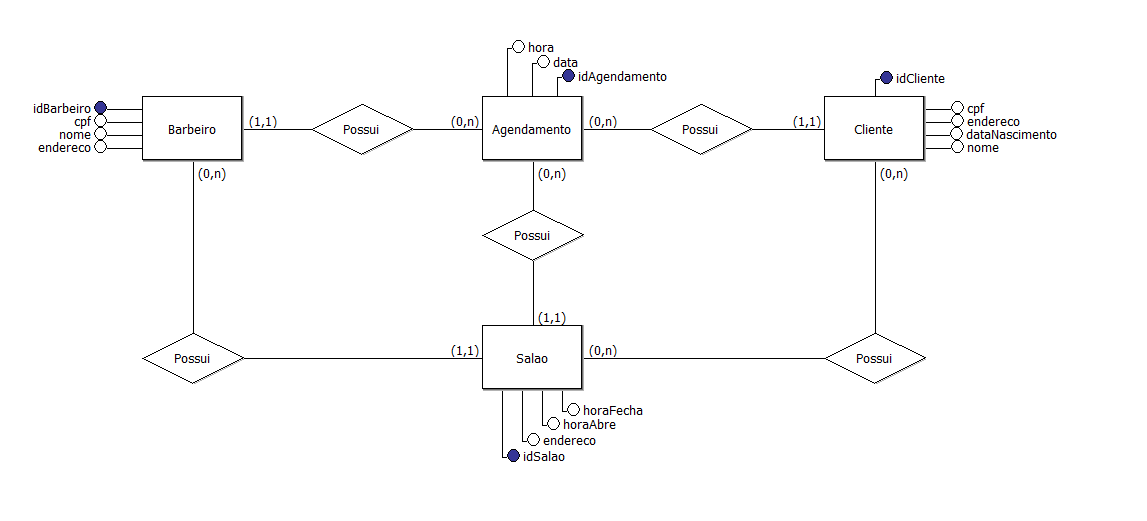
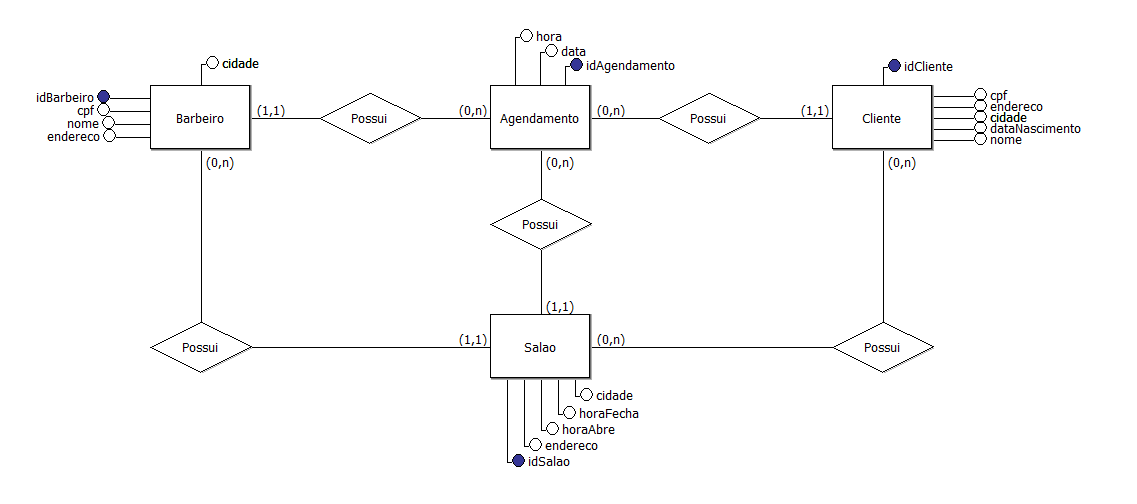
Arrumando modelo conceitual e campos Entidade Salao

diff --git a/src/main/java/com/example/barbeariaviniespinosasamuelferraz/entity/Salao.java b/src/main/java/com/example/barbeariaviniespinosasamuelferraz/entity/Salao.java
@@ -27,8 +27,8 @@ public class Salao implements Serializable {
 
     private String endereco;
     private String cidade;
-    private Time abre;
-    private Time fecha;
+    private Time horaAbre;
+    private Time horaFecha;
 
     @OneToMany
     @JoinColumn(name = "idSalao")
@@ -67,20 +67,20 @@ public class Salao implements Serializable {
         this.cidade = cidade;
     }
 
-    public Time getAbre() {
-        return abre;
+    public Time getHoraAbre() {
+        return horaAbre;
     }
 
-    public void setAbre(Time abre) {
-        this.abre = abre;
+    public void setHoraAbre(Time horaAbre) {
+        this.horaAbre = horaAbre;
     }
 
-    public Time getFecha() {
-        return fecha;
+    public Time getHoraFecha() {
+        return horaFecha;
     }
 
-    public void setFecha(Time fecha) {
-        this.fecha = fecha;
+    public void setHoraFecha(Time horaFecha) {
+        this.horaFecha = horaFecha;
     }
 
     public List<Barbeiro> getBarbeiros() {
@@ -101,8 +101,8 @@ public class Salao implements Serializable {
 
     @Override
     public String toString() {
-        return "Salao [abre=" + abre + ", barbeiros=" + barbeiros + ", cidade=" + cidade + ", clientes=" + clientes
-                + ", endereco=" + endereco + ", fecha=" + fecha + ", idSalao=" + idSalao + "]";
+        return "Salao [horaAbre=" + horaAbre + ", barbeiros=" + barbeiros + ", cidade=" + cidade + ", clientes="
+                + clientes + ", endereco=" + endereco + ", horaFecha=" + horaFecha + ", idSalao=" + idSalao + "]";
     }
 
 }
